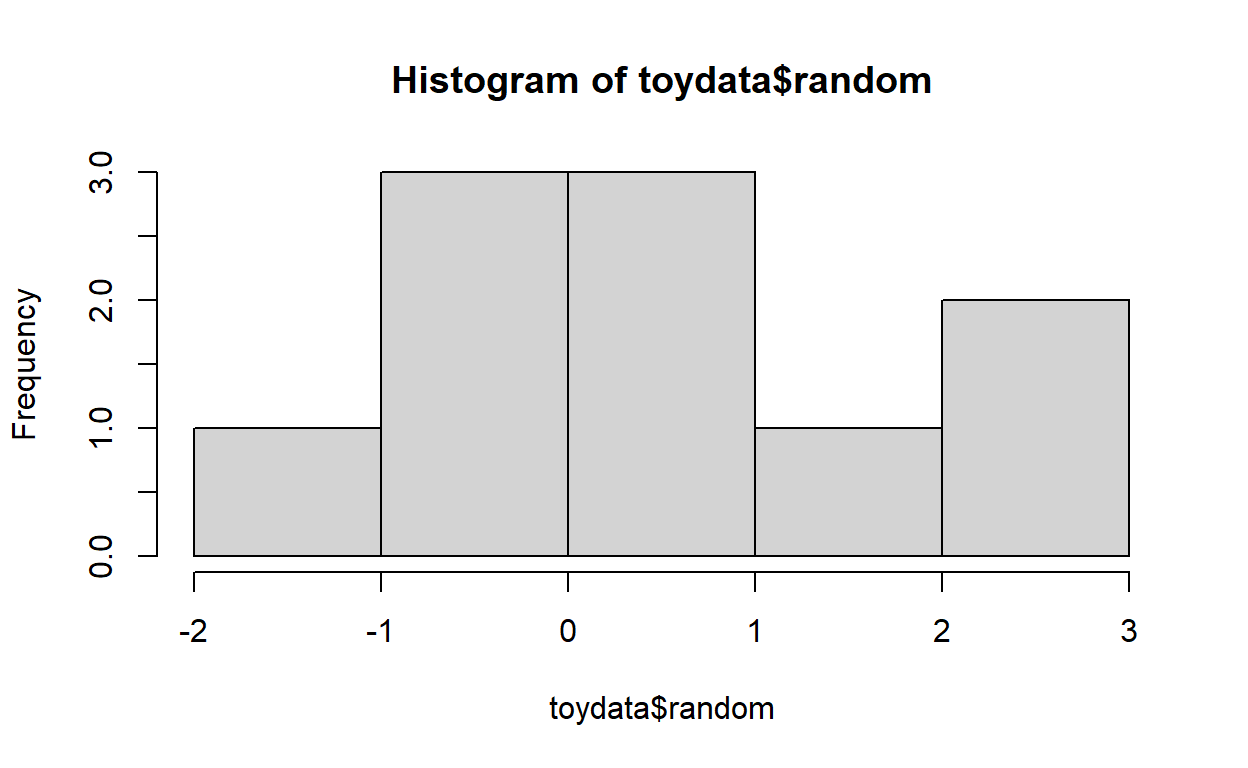
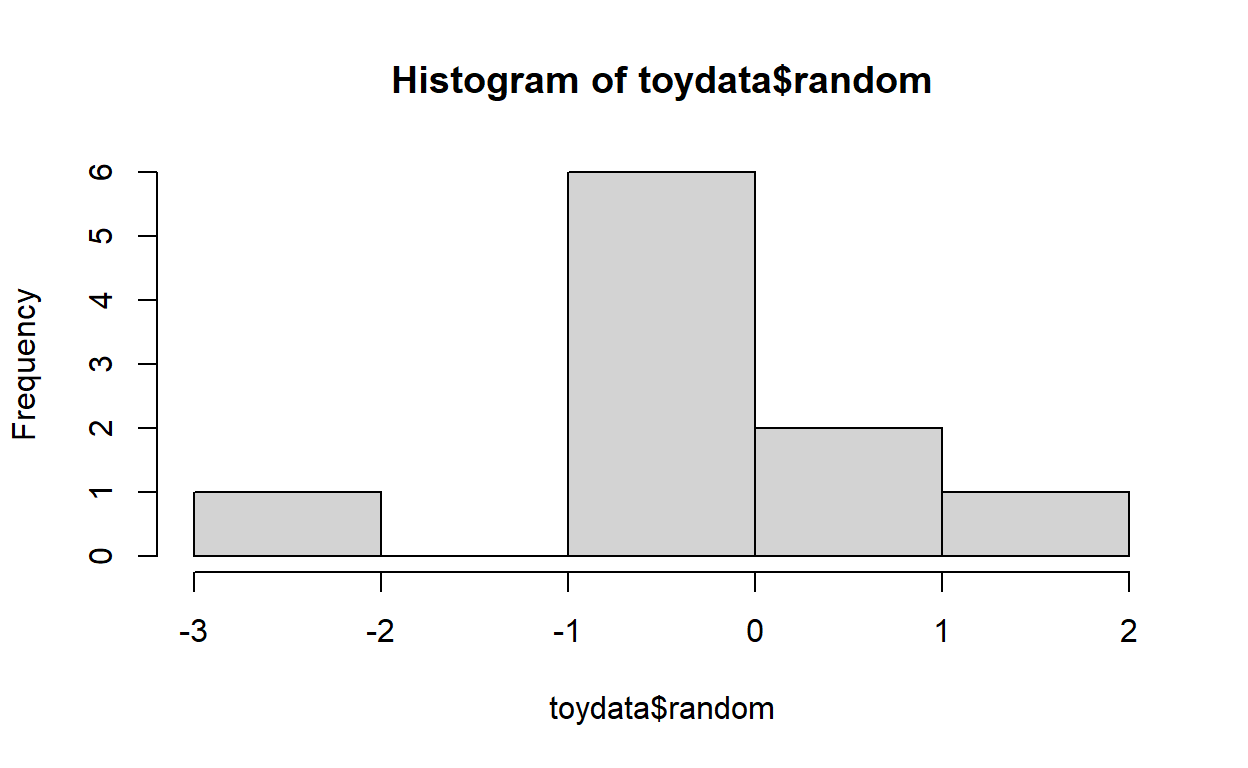
Week2 doc edit

diff --git a/DataSkills.html b/DataSkills.html
@@ -531,10 +531,10 @@ ggplot(as.data.frame(random), aes(x = random)) +
 <p><img src="DataSkills_files/figure-html/unnamed-chunk-1-1.png" width="624" style="display: block; margin: auto;" /></p>
 <pre class="r"><code># mean
 mean(random)</code></pre>
-<pre><code>## [1] -0.01815602</code></pre>
+<pre><code>## [1] -0.02300475</code></pre>
 <pre class="r"><code># standard deviation
 sd(random)</code></pre>
-<pre><code>## [1] 0.999791</code></pre>
+<pre><code>## [1] 0.9999095</code></pre>
 <p> </p>
 </div>
 <div id="section-what-does-the-above-code-do" class="section level5">
@@ -944,7 +944,6 @@ sd(random)</code></pre>
 <p>This video explains briefly how <code>R</code> packages work:<br />
 <br />
 </p>
-VIDEO HERE
 <center>
 <img src="https://youtu.be/jATnemXDU2U" style="width:80.0%" />
 </center>
@@ -972,7 +971,6 @@ Many of your lecturers that use <code>R</code> will work only in base <code>R</c
 <p>There are 6 key components to <code>R</code>code: <strong>objects</strong>, <strong>assignment</strong>, <strong>functions</strong>, <strong>arguments</strong>, <strong>outputs</strong> and <strong>comments</strong>.<br />
 <br />
 </p>
-VIDEO HERE
 <center>
 <img src="https://youtu.be/A40B5lelYpY" style="width:80.0%" />
 </center>
@@ -1239,22 +1237,23 @@ factor1</code></pre>
 <p>Logical objects are perhaps hard to understand at first, but they’re simple really. They basically indicate whether something is <code>TRUE</code> or <code>FALSE</code>. They usually relate to a question we ask of our data.</p>
 <pre class="r"><code>rand_norm &lt;- rnorm(50, 0, 1)
 rand_norm</code></pre>
-<pre><code>##  [1]  0.26878486  0.52205748 -0.74479784  1.07809703 -0.73462947  1.08722171
-##  [7] -0.92117243 -0.59916234 -1.24523500  1.46391777  0.55218443 -0.71683560
-## [13] -1.31715348  0.65477275 -0.52080497 -0.11931981 -0.59726079  0.06309498
-## [19] -0.53334800 -1.83876496  1.51643754  0.32187404  1.19719638  0.50329644
-## [25]  0.30365317 -1.41865655  0.68951047 -0.97769850  1.35837438 -0.24296557
-## [31] -0.37595865  0.04520663  0.16662219 -0.07451180  1.88712858  0.91931933
-## [37]  1.52878054 -0.66459110 -1.65017740 -1.30480836 -0.95662427  0.35994234
-## [43]  0.56875819  0.39301594 -0.37824222  0.58859561  0.25306784 -0.36949501
-## [49]  0.52706671  0.49682310</code></pre>
+<pre><code>##  [1]  0.499376551  0.291476734 -0.722237353  0.459588831 -0.883041962
+##  [6] -0.548421699 -1.124073410  0.811791929 -0.335948300  0.429791628
+## [11] -0.339076901  0.288487761 -1.126076047 -1.883993947  0.111230051
+## [16]  2.077378677  1.218745252 -0.704072145  0.047893634 -0.599506581
+## [21]  0.476338412  0.368225133  1.953245566 -0.282040894  0.191447332
+## [26]  2.826047171 -0.313321412  0.063698169  0.046686400  0.173322114
+## [31] -1.757775764  0.596265744 -0.158478239 -2.386627454 -0.260032564
+## [36] -0.578765339  0.883471870  0.605392595 -0.329763673  1.077816812
+## [41] -0.980827172 -0.716624986  1.298608396  0.005964155  0.887686113
+## [46]  0.790923447 -1.261222593  0.598910013 -1.355921847  1.008157984</code></pre>
 <pre class="r"><code>over0 &lt;- rand_norm &gt; 0
 over0</code></pre>
-<pre><code>##  [1]  TRUE  TRUE FALSE  TRUE FALSE  TRUE FALSE FALSE FALSE  TRUE  TRUE FALSE
-## [13] FALSE  TRUE FALSE FALSE FALSE  TRUE FALSE FALSE  TRUE  TRUE  TRUE  TRUE
-## [25]  TRUE FALSE  TRUE FALSE  TRUE FALSE FALSE  TRUE  TRUE FALSE  TRUE  TRUE
-## [37]  TRUE FALSE FALSE FALSE FALSE  TRUE  TRUE  TRUE FALSE  TRUE  TRUE FALSE
-## [49]  TRUE  TRUE</code></pre>
+<pre><code>##  [1]  TRUE  TRUE FALSE  TRUE FALSE FALSE FALSE  TRUE FALSE  TRUE FALSE  TRUE
+## [13] FALSE FALSE  TRUE  TRUE  TRUE FALSE  TRUE FALSE  TRUE  TRUE  TRUE FALSE
+## [25]  TRUE  TRUE FALSE  TRUE  TRUE  TRUE FALSE  TRUE FALSE FALSE FALSE FALSE
+## [37]  TRUE  TRUE FALSE  TRUE FALSE FALSE  TRUE  TRUE  TRUE  TRUE FALSE  TRUE
+## [49] FALSE  TRUE</code></pre>
 <p>The result is information on which of your random data are greater than than 0.<br />
 <br />
 </p>
@@ -1371,7 +1370,7 @@ toydata &lt;- data.frame(numbers2, factor1, factor2, random)
 toydata</code></pre>
 <div data-pagedtable="false">
 <script data-pagedtable-source type="application/json">
-{"columns":[{"label":["numbers2"],"name":[1],"type":["dbl"],"align":["right"]},{"label":["factor1"],"name":[2],"type":["fctr"],"align":["left"]},{"label":["factor2"],"name":[3],"type":["chr"],"align":["left"]},{"label":["random"],"name":[4],"type":["dbl"],"align":["right"]}],"data":[{"1":"2","2":"A","3":"A","4":"1.3946109"},{"1":"4","2":"B","3":"B","4":"0.1880146"},{"1":"6","2":"C","3":"A","4":"-0.3715855"},{"1":"8","2":"D","3":"B","4":"-0.5743634"},{"1":"10","2":"E","3":"A","4":"0.1147054"},{"1":"12","2":"A","3":"B","4":"2.4828256"},{"1":"14","2":"B","3":"A","4":"2.2150384"},{"1":"16","2":"C","3":"B","4":"-0.5063027"},{"1":"18","2":"D","3":"A","4":"0.9872817"},{"1":"20","2":"E","3":"B","4":"-1.2057156"}],"options":{"columns":{"min":{},"max":[10]},"rows":{"min":[10],"max":[10]},"pages":{}}}
+{"columns":[{"label":["numbers2"],"name":[1],"type":["dbl"],"align":["right"]},{"label":["factor1"],"name":[2],"type":["fctr"],"align":["left"]},{"label":["factor2"],"name":[3],"type":["chr"],"align":["left"]},{"label":["random"],"name":[4],"type":["dbl"],"align":["right"]}],"data":[{"1":"2","2":"A","3":"A","4":"-0.41125144"},{"1":"4","2":"B","3":"B","4":"-0.83857670"},{"1":"6","2":"C","3":"A","4":"-0.12664172"},{"1":"8","2":"D","3":"B","4":"1.25888539"},{"1":"10","2":"E","3":"A","4":"-0.07995931"},{"1":"12","2":"A","3":"B","4":"-0.85485834"},{"1":"14","2":"B","3":"A","4":"-2.56714096"},{"1":"16","2":"C","3":"B","4":"0.36408219"},{"1":"18","2":"D","3":"A","4":"0.56383806"},{"1":"20","2":"E","3":"B","4":"-0.30769090"}],"options":{"columns":{"min":{},"max":[10]},"rows":{"min":[10],"max":[10]},"pages":{}}}
   </script>
 </div>
 <p><br />
@@ -1404,7 +1403,7 @@ toydata</code></pre>
 toydata[1:5, ]</code></pre>
 <div data-pagedtable="false">
 <script data-pagedtable-source type="application/json">
-{"columns":[{"label":[""],"name":["_rn_"],"type":[""],"align":["left"]},{"label":["numbers2"],"name":[1],"type":["dbl"],"align":["right"]},{"label":["factor1"],"name":[2],"type":["fctr"],"align":["left"]},{"label":["factor2"],"name":[3],"type":["chr"],"align":["left"]},{"label":["random"],"name":[4],"type":["dbl"],"align":["right"]}],"data":[{"1":"2","2":"A","3":"A","4":"1.3946109","_rn_":"1"},{"1":"4","2":"B","3":"B","4":"0.1880146","_rn_":"2"},{"1":"6","2":"C","3":"A","4":"-0.3715855","_rn_":"3"},{"1":"8","2":"D","3":"B","4":"-0.5743634","_rn_":"4"},{"1":"10","2":"E","3":"A","4":"0.1147054","_rn_":"5"}],"options":{"columns":{"min":{},"max":[10]},"rows":{"min":[10],"max":[10]},"pages":{}}}
+{"columns":[{"label":[""],"name":["_rn_"],"type":[""],"align":["left"]},{"label":["numbers2"],"name":[1],"type":["dbl"],"align":["right"]},{"label":["factor1"],"name":[2],"type":["fctr"],"align":["left"]},{"label":["factor2"],"name":[3],"type":["chr"],"align":["left"]},{"label":["random"],"name":[4],"type":["dbl"],"align":["right"]}],"data":[{"1":"2","2":"A","3":"A","4":"-0.41125144","_rn_":"1"},{"1":"4","2":"B","3":"B","4":"-0.83857670","_rn_":"2"},{"1":"6","2":"C","3":"A","4":"-0.12664172","_rn_":"3"},{"1":"8","2":"D","3":"B","4":"1.25888539","_rn_":"4"},{"1":"10","2":"E","3":"A","4":"-0.07995931","_rn_":"5"}],"options":{"columns":{"min":{},"max":[10]},"rows":{"min":[10],"max":[10]},"pages":{}}}
   </script>
 </div>
 <pre class="r"><code># If you want all rows then leave the first number blank.
@@ -1719,7 +1718,7 @@ mydata[1:2, ]</code></pre>
   xlim(0, 20) + ylim(-2, 2) +
   xlab(&quot;Even numbers&quot;) + ylab(&quot;Random normal&quot;) +
   theme_minimal()</code></pre>
-<pre><code>## Warning: Removed 2 rows containing missing values (geom_point).</code></pre>
+<pre><code>## Warning: Removed 1 rows containing missing values (geom_point).</code></pre>
 <p><img src="DataSkills_files/figure-html/unnamed-chunk-29-1.png" width="624" style="display: block; margin: auto;" /><br />
 </p>
 <p>Take a look at the graph and the code, and it’s possible to match up the different layers:</p>
@@ -1864,15 +1863,15 @@ learnr:::store_exercise_setup_chunk("__setup__", c("# packages", "library(learnr
  
 <script type="application/shiny-prerendered" data-context="server">
 learnr:::question_prerendered_chunk(structure(list(type = "learnr_radio", label = "qz031-1", question = structure("Here&#39;s a simple multiple choice question: which of these is the best?", html = TRUE, class = c("html", 
-"character")), answers = list(structure(list(id = "lnr_ans_dbcca73", 
+"character")), answers = list(structure(list(id = "lnr_ans_81d0b9f", 
     option = "Cake", value = "Cake", label = structure("Cake", html = TRUE, class = c("html", 
     "character")), correct = FALSE, message = structure("Incorrect. Biscuits rule all. Try dunking some cake in tea or coffee!", html = TRUE, class = c("html", 
     "character"))), class = c("tutorial_question_answer", "tutorial_quiz_answer"
-)), structure(list(id = "lnr_ans_58ea057", option = "Biscuits", 
+)), structure(list(id = "lnr_ans_baa6368", option = "Biscuits", 
     value = "Biscuits", label = structure("Biscuits", html = TRUE, class = c("html", 
     "character")), correct = TRUE, message = structure("Yes!!! Biscuits rule all!", html = TRUE, class = c("html", 
     "character"))), class = c("tutorial_question_answer", "tutorial_quiz_answer"
-)), structure(list(id = "lnr_ans_e9bfa92", option = "Cheesecake", 
+)), structure(list(id = "lnr_ans_d030e13", option = "Cheesecake", 
     value = "Cheesecake", label = structure("Cheesecake", html = TRUE, class = c("html", 
     "character")), correct = FALSE, message = structure("Incorrect. Biscuits rule all. Try dunking some cheesecake in tea or coffee!", html = TRUE, class = c("html", 
     "character"))), class = c("tutorial_question_answer", "tutorial_quiz_answer"
@@ -1884,24 +1883,24 @@ learnr:::question_prerendered_chunk(structure(list(type = "learnr_radio", label 
 "character")), message = NULL, post_message = NULL), ids = list(
     answer = "qz031-1-answer", question = "qz031-1"), loading = structure("<strong>Loading:<\u002fstrong> \nHere&#39;s a simple multiple choice question: which of these is the best?\n<br/><br/><br/>", html = TRUE, class = c("html", 
 "character")), random_answer_order = TRUE, allow_retry = FALSE, 
-    seed = 1448390010.82554, options = list()), class = c("learnr_radio", 
+    seed = 1266824549.91009, options = list()), class = c("learnr_radio", 
 "tutorial_question")))
 </script>
  
 <script type="application/shiny-prerendered" data-context="server">
 learnr:::question_prerendered_chunk(structure(list(type = "learnr_checkbox", label = "qz031-2", question = structure("Here&#39;s a multiple choice question with more than one answer: which of these are amazing?", html = TRUE, class = c("html", 
-"character")), answers = list(structure(list(id = "lnr_ans_796c1b4", 
+"character")), answers = list(structure(list(id = "lnr_ans_aeebfdc", 
     option = "Tea", value = "Tea", label = structure("Tea", html = TRUE, class = c("html", 
     "character")), correct = TRUE, message = structure("Tea is amazing.", html = TRUE, class = c("html", 
     "character"))), class = c("tutorial_question_answer", "tutorial_quiz_answer"
-)), structure(list(id = "lnr_ans_67acc54", option = "Coffee", 
+)), structure(list(id = "lnr_ans_a979eb4", option = "Coffee", 
     value = "Coffee", label = structure("Coffee", html = TRUE, class = c("html", 
     "character")), correct = TRUE, message = structure("Coffee is amazing.", html = TRUE, class = c("html", 
     "character"))), class = c("tutorial_question_answer", "tutorial_quiz_answer"
-)), structure(list(id = "lnr_ans_6ecb3d8", option = "Fruit tea", 
+)), structure(list(id = "lnr_ans_7eaf380", option = "Fruit tea", 
     value = "Fruit tea", label = structure("Fruit tea", html = TRUE, class = c("html", 
     "character")), correct = FALSE, message = NULL), class = c("tutorial_question_answer", 
-"tutorial_quiz_answer")), structure(list(id = "lnr_ans_6dfe5bc", 
+"tutorial_quiz_answer")), structure(list(id = "lnr_ans_6f2a914", 
     option = "None of these", value = "None of these", label = structure("None of these", html = TRUE, class = c("html", 
     "character")), correct = FALSE, message = NULL), class = c("tutorial_question_answer", 
 "tutorial_quiz_answer"))), button_labels = list(submit = structure("Submit Answer", html = TRUE, class = c("html", 
@@ -1912,17 +1911,17 @@ learnr:::question_prerendered_chunk(structure(list(type = "learnr_checkbox", lab
 "character")), message = NULL, post_message = NULL), ids = list(
     answer = "qz031-2-answer", question = "qz031-2"), loading = structure("<strong>Loading:<\u002fstrong> \nHere&#39;s a multiple choice question with more than one answer: which of these are amazing?\n<br/><br/><br/>", html = TRUE, class = c("html", 
 "character")), random_answer_order = TRUE, allow_retry = FALSE, 
-    seed = 82355752.9616501, options = list()), class = c("learnr_checkbox", 
+    seed = 824021645.116285, options = list()), class = c("learnr_checkbox", 
 "tutorial_question")))
 </script>
  
 <script type="application/shiny-prerendered" data-context="server">
 learnr:::question_prerendered_chunk(structure(list(type = "learnr_radio", label = "qz031-3", question = structure("Here&#39;s a question which you can retry if you get the answer wrong. Are you excited to learn some R coding???", html = TRUE, class = c("html", 
-"character")), answers = list(structure(list(id = "lnr_ans_a24b9d5", 
+"character")), answers = list(structure(list(id = "lnr_ans_fcbcba", 
     option = "No", value = "No", label = structure("No", html = TRUE, class = c("html", 
     "character")), correct = FALSE, message = structure("...wow. Harsh. Try again.", html = TRUE, class = c("html", 
     "character"))), class = c("tutorial_question_answer", "tutorial_quiz_answer"
-)), structure(list(id = "lnr_ans_e6bd946", option = "Yes", value = "Yes", 
+)), structure(list(id = "lnr_ans_23fde59", option = "Yes", value = "Yes", 
     label = structure("Yes", html = TRUE, class = c("html", "character"
     )), correct = TRUE, message = structure("Yeah you are!!!", html = TRUE, class = c("html", 
     "character"))), class = c("tutorial_question_answer", "tutorial_quiz_answer"
@@ -1934,7 +1933,7 @@ learnr:::question_prerendered_chunk(structure(list(type = "learnr_radio", label 
 "character")), message = NULL, post_message = NULL), ids = list(
     answer = "qz031-3-answer", question = "qz031-3"), loading = structure("<strong>Loading:<\u002fstrong> \nHere&#39;s a question which you can retry if you get the answer wrong. Are you excited to learn some R coding???\n<br/><br/><br/>", html = TRUE, class = c("html", 
 "character")), random_answer_order = TRUE, allow_retry = TRUE, 
-    seed = 2033781262.55295, options = list()), class = c("learnr_radio", 
+    seed = 872361649.593775, options = list()), class = c("learnr_radio", 
 "tutorial_question")))
 </script>
  
@@ -2085,17 +2084,17 @@ learnr:::store_exercise_cache("ex24_2", list(setup = NULL, chunks = list(list(la
  
 <script type="application/shiny-prerendered" data-context="server">
 learnr:::question_prerendered_chunk(structure(list(type = "learnr_radio", label = "qz24_1-1", question = structure("What do the three arguments of the seq() function mean (in order)?", html = TRUE, class = c("html", 
-"character")), answers = list(structure(list(id = "lnr_ans_c5ba950", 
+"character")), answers = list(structure(list(id = "lnr_ans_993421f", 
     option = "start of sequence, length of sequence, sequence increment", 
     value = "start of sequence, length of sequence, sequence increment", 
     label = structure("start of sequence, length of sequence, sequence increment", html = TRUE, class = c("html", 
     "character")), correct = FALSE, message = NULL), class = c("tutorial_question_answer", 
-"tutorial_quiz_answer")), structure(list(id = "lnr_ans_db61d52", 
+"tutorial_quiz_answer")), structure(list(id = "lnr_ans_dc7112e", 
     option = "start of sequence, end of sequence, length of sequence", 
     value = "start of sequence, end of sequence, length of sequence", 
     label = structure("start of sequence, end of sequence, length of sequence", html = TRUE, class = c("html", 
     "character")), correct = FALSE, message = NULL), class = c("tutorial_question_answer", 
-"tutorial_quiz_answer")), structure(list(id = "lnr_ans_2c41b66", 
+"tutorial_quiz_answer")), structure(list(id = "lnr_ans_14fc51e", 
     option = "start of sequence, end of sequence, sequence increment", 
     value = "start of sequence, end of sequence, sequence increment", 
     label = structure("start of sequence, end of sequence, sequence increment", html = TRUE, class = c("html", 
@@ -2108,25 +2107,25 @@ learnr:::question_prerendered_chunk(structure(list(type = "learnr_radio", label 
 "character")), message = NULL, post_message = NULL), ids = list(
     answer = "qz24_1-1-answer", question = "qz24_1-1"), loading = structure("<strong>Loading:<\u002fstrong> \nWhat do the three arguments of the seq() function mean (in order)?\n<br/><br/><br/>", html = TRUE, class = c("html", 
 "character")), random_answer_order = TRUE, allow_retry = FALSE, 
-    seed = 53097657.9752745, options = list()), class = c("learnr_radio", 
+    seed = 2140030108.50347, options = list()), class = c("learnr_radio", 
 "tutorial_question")))
 </script>
  
 <script type="application/shiny-prerendered" data-context="server">
 learnr:::question_prerendered_chunk(structure(list(type = "learnr_checkbox", label = "qz24_1-2", 
     question = structure("how could you find the mean of the numeric vector <code>c(5, 6, 7, 8)<\u002fcode>? Choose all answers that apply.", html = TRUE, class = c("html", 
-    "character")), answers = list(structure(list(id = "lnr_ans_baaad69", 
+    "character")), answers = list(structure(list(id = "lnr_ans_fea4a35", 
         option = "`mean(c(5, 6, 7, 8))`", value = "`mean(c(5, 6, 7, 8))`", 
         label = structure("<code>mean(c(5, 6, 7, 8))<\u002fcode>", html = TRUE, class = c("html", 
         "character")), correct = TRUE, message = NULL), class = c("tutorial_question_answer", 
-    "tutorial_quiz_answer")), structure(list(id = "lnr_ans_61fd707", 
+    "tutorial_quiz_answer")), structure(list(id = "lnr_ans_7777708", 
         option = "`mean(5:8)`", value = "`mean(5:8)`", label = structure("<code>mean(5:8)<\u002fcode>", html = TRUE, class = c("html", 
         "character")), correct = TRUE, message = NULL), class = c("tutorial_question_answer", 
-    "tutorial_quiz_answer")), structure(list(id = "lnr_ans_ee1ab7e", 
+    "tutorial_quiz_answer")), structure(list(id = "lnr_ans_1b96913", 
         option = "`summary(5:8)`", value = "`summary(5:8)`", 
         label = structure("<code>summary(5:8)<\u002fcode>", html = TRUE, class = c("html", 
         "character")), correct = TRUE, message = NULL), class = c("tutorial_question_answer", 
-    "tutorial_quiz_answer")), structure(list(id = "lnr_ans_808f413", 
+    "tutorial_quiz_answer")), structure(list(id = "lnr_ans_a4deee3", 
         option = "`(5 + 6 + 7 + 8) / 4`", value = "`(5 + 6 + 7 + 8) / 4`", 
         label = structure("<code>(5 + 6 + 7 + 8) / 4<\u002fcode>", html = TRUE, class = c("html", 
         "character")), correct = TRUE, message = NULL), class = c("tutorial_question_answer", 
@@ -2138,7 +2137,7 @@ learnr:::question_prerendered_chunk(structure(list(type = "learnr_checkbox", lab
     "character")), message = NULL, post_message = NULL), ids = list(
         answer = "qz24_1-2-answer", question = "qz24_1-2"), loading = structure("<strong>Loading:<\u002fstrong> \nhow could you find the mean of the numeric vector <code>c(5, 6, 7, 8)<\u002fcode>? Choose all answers that apply.\n<br/><br/><br/>", html = TRUE, class = c("html", 
     "character")), random_answer_order = TRUE, allow_retry = TRUE, 
-    seed = 537968063.749489, options = list()), class = c("learnr_checkbox", 
+    seed = 323719618.349256, options = list()), class = c("learnr_checkbox", 
 "tutorial_question")))
 </script>
  
@@ -2180,21 +2179,21 @@ learnr:::store_exercise_cache("ex252_3", list(setup = NULL, chunks = list(list(l
  
 <script type="application/shiny-prerendered" data-context="server">
 learnr:::question_prerendered_chunk(structure(list(type = "learnr_radio", label = "qz253_3-1", question = structure("What is the fundamental difference between a character vector and a factor vector?", html = TRUE, class = c("html", 
-"character")), answers = list(structure(list(id = "lnr_ans_4343513", 
+"character")), answers = list(structure(list(id = "lnr_ans_8e6c9b0", 
     option = "A factor vector excludes quotation marks and a character vector doesn't.", 
     value = "A factor vector excludes quotation marks and a character vector doesn't.", 
     label = structure("A factor vector excludes quotation marks and a character vector doesn&#39;t.", html = TRUE, class = c("html", 
     "character")), correct = FALSE, message = NULL), class = c("tutorial_question_answer", 
-"tutorial_quiz_answer")), structure(list(id = "lnr_ans_522fd8a", 
+"tutorial_quiz_answer")), structure(list(id = "lnr_ans_60d8422", 
     option = "A factor vector can be used in a data frame", value = "A factor vector can be used in a data frame", 
     label = structure("A factor vector can be used in a data frame", html = TRUE, class = c("html", 
     "character")), correct = FALSE, message = structure("Both character vectors and factor vectors can be used in data frames.", html = TRUE, class = c("html", 
     "character"))), class = c("tutorial_question_answer", "tutorial_quiz_answer"
-)), structure(list(id = "lnr_ans_b885c64", option = "A factor vector has defined 'levels' that values can take", 
+)), structure(list(id = "lnr_ans_4748737", option = "A factor vector has defined 'levels' that values can take", 
     value = "A factor vector has defined 'levels' that values can take", 
     label = structure("A factor vector has defined &#39;levels&#39; that values can take", html = TRUE, class = c("html", 
     "character")), correct = TRUE, message = NULL), class = c("tutorial_question_answer", 
-"tutorial_quiz_answer")), structure(list(id = "lnr_ans_b89f03b", 
+"tutorial_quiz_answer")), structure(list(id = "lnr_ans_41f357d", 
     option = "A factor vector and a character vector are the same.", 
     value = "A factor vector and a character vector are the same.", 
     label = structure("A factor vector and a character vector are the same.", html = TRUE, class = c("html", 
@@ -2207,23 +2206,23 @@ learnr:::question_prerendered_chunk(structure(list(type = "learnr_radio", label 
 "character")), message = NULL, post_message = NULL), ids = list(
     answer = "qz253_3-1-answer", question = "qz253_3-1"), loading = structure("<strong>Loading:<\u002fstrong> \nWhat is the fundamental difference between a character vector and a factor vector?\n<br/><br/><br/>", html = TRUE, class = c("html", 
 "character")), random_answer_order = TRUE, allow_retry = FALSE, 
-    seed = 1903630695.61355, options = list()), class = c("learnr_radio", 
+    seed = 1088264660.49324, options = list()), class = c("learnr_radio", 
 "tutorial_question")))
 </script>
  
 <script type="application/shiny-prerendered" data-context="server">
 learnr:::question_prerendered_chunk(structure(list(type = "learnr_radio", label = "qz253_3-2", question = structure("What are character and factor vectors each best used for?", html = TRUE, class = c("html", 
-"character")), answers = list(structure(list(id = "lnr_ans_29ad3ca", 
+"character")), answers = list(structure(list(id = "lnr_ans_6252301", 
     option = "character: unique information for each data row; factor: shared information across rows", 
     value = "character: unique information for each data row; factor: shared information across rows", 
     label = structure("character: unique information for each data row; factor: shared information across rows", html = TRUE, class = c("html", 
     "character")), correct = TRUE, message = NULL), class = c("tutorial_question_answer", 
-"tutorial_quiz_answer")), structure(list(id = "lnr_ans_9af5543", 
+"tutorial_quiz_answer")), structure(list(id = "lnr_ans_f31025", 
     option = "character: shared information across rows; factor: unique information for each data row", 
     value = "character: shared information across rows; factor: unique information for each data row", 
     label = structure("character: shared information across rows; factor: unique information for each data row", html = TRUE, class = c("html", 
     "character")), correct = FALSE, message = NULL), class = c("tutorial_question_answer", 
-"tutorial_quiz_answer")), structure(list(id = "lnr_ans_2f8df95", 
+"tutorial_quiz_answer")), structure(list(id = "lnr_ans_81494f8", 
     option = "It doesn't matter", value = "It doesn't matter", 
     label = structure("It doesn&#39;t matter", html = TRUE, class = c("html", 
     "character")), correct = FALSE, message = NULL), class = c("tutorial_question_answer", 
@@ -2236,16 +2235,16 @@ learnr:::question_prerendered_chunk(structure(list(type = "learnr_radio", label 
 "character")), post_message = NULL), ids = list(answer = "qz253_3-2-answer", 
     question = "qz253_3-2"), loading = structure("<strong>Loading:<\u002fstrong> \nWhat are character and factor vectors each best used for?\n<br/><br/><br/>", html = TRUE, class = c("html", 
 "character")), random_answer_order = TRUE, allow_retry = FALSE, 
-    seed = 617248025.212572, options = list()), class = c("learnr_radio", 
+    seed = 265103837.376551, options = list()), class = c("learnr_radio", 
 "tutorial_question")))
 </script>
  
 <script type="application/shiny-prerendered" data-context="server">
 learnr:::question_prerendered_chunk(structure(list(type = "learnr_radio", label = "qz254_4-1", question = structure("If you ran the above code multiple times, would you get the same result each time?", html = TRUE, class = c("html", 
-"character")), answers = list(structure(list(id = "lnr_ans_9429e5", 
+"character")), answers = list(structure(list(id = "lnr_ans_855909f", 
     option = "Yes", value = "Yes", label = structure("Yes", html = TRUE, class = c("html", 
     "character")), correct = TRUE, message = NULL), class = c("tutorial_question_answer", 
-"tutorial_quiz_answer")), structure(list(id = "lnr_ans_8672916", 
+"tutorial_quiz_answer")), structure(list(id = "lnr_ans_fdc7d7d", 
     option = "No", value = "No", label = structure("No", html = TRUE, class = c("html", 
     "character")), correct = FALSE, message = NULL), class = c("tutorial_question_answer", 
 "tutorial_quiz_answer"))), button_labels = list(submit = structure("Submit Answer", html = TRUE, class = c("html", 
@@ -2256,22 +2255,22 @@ learnr:::question_prerendered_chunk(structure(list(type = "learnr_radio", label 
 "character")), message = NULL, post_message = NULL), ids = list(
     answer = "qz254_4-1-answer", question = "qz254_4-1"), loading = structure("<strong>Loading:<\u002fstrong> \nIf you ran the above code multiple times, would you get the same result each time?\n<br/><br/><br/>", html = TRUE, class = c("html", 
 "character")), random_answer_order = TRUE, allow_retry = FALSE, 
-    seed = 1285209472.90153, options = list()), class = c("learnr_radio", 
+    seed = 1130514158.47356, options = list()), class = c("learnr_radio", 
 "tutorial_question")))
 </script>
  
 <script type="application/shiny-prerendered" data-context="server">
 learnr:::question_prerendered_chunk(structure(list(type = "learnr_radio", label = "qz254_4-2", question = structure("You won&#39;t get the same result each time. Which part of the code causes that to happen?", html = TRUE, class = c("html", 
-"character")), answers = list(structure(list(id = "lnr_ans_5bc2044", 
+"character")), answers = list(structure(list(id = "lnr_ans_f6ed01f", 
     option = "the function rnorm()", value = "the function rnorm()", 
     label = structure("the function rnorm()", html = TRUE, class = c("html", 
     "character")), correct = TRUE, message = structure("The function rnorm() creates random numbers.", html = TRUE, class = c("html", 
     "character"))), class = c("tutorial_question_answer", "tutorial_quiz_answer"
-)), structure(list(id = "lnr_ans_d78bf25", option = "The arguments 50, 0, 1", 
+)), structure(list(id = "lnr_ans_59edc80", option = "The arguments 50, 0, 1", 
     value = "The arguments 50, 0, 1", label = structure("The arguments 50, 0, 1", html = TRUE, class = c("html", 
     "character")), correct = FALSE, message = structure("The function rnorm() creates random numbers.", html = TRUE, class = c("html", 
     "character"))), class = c("tutorial_question_answer", "tutorial_quiz_answer"
-)), structure(list(id = "lnr_ans_c0fdc9c", option = "The logical operator >", 
+)), structure(list(id = "lnr_ans_fc1cb72", option = "The logical operator >", 
     value = "The logical operator >", label = structure("The logical operator &gt;", html = TRUE, class = c("html", 
     "character")), correct = FALSE, message = structure("The function rnorm() creates random numbers.", html = TRUE, class = c("html", 
     "character"))), class = c("tutorial_question_answer", "tutorial_quiz_answer"
@@ -2283,7 +2282,7 @@ learnr:::question_prerendered_chunk(structure(list(type = "learnr_radio", label 
 "character")), message = NULL, post_message = NULL), ids = list(
     answer = "qz254_4-2-answer", question = "qz254_4-2"), loading = structure("<strong>Loading:<\u002fstrong> \nYou won&#39;t get the same result each time. Which part of the code causes that to happen?\n<br/><br/><br/>", html = TRUE, class = c("html", 
 "character")), random_answer_order = TRUE, allow_retry = FALSE, 
-    seed = 306132548.357446, options = list()), class = c("learnr_radio", 
+    seed = 1693213473.21154, options = list()), class = c("learnr_radio", 
 "tutorial_question")))
 </script>
  
